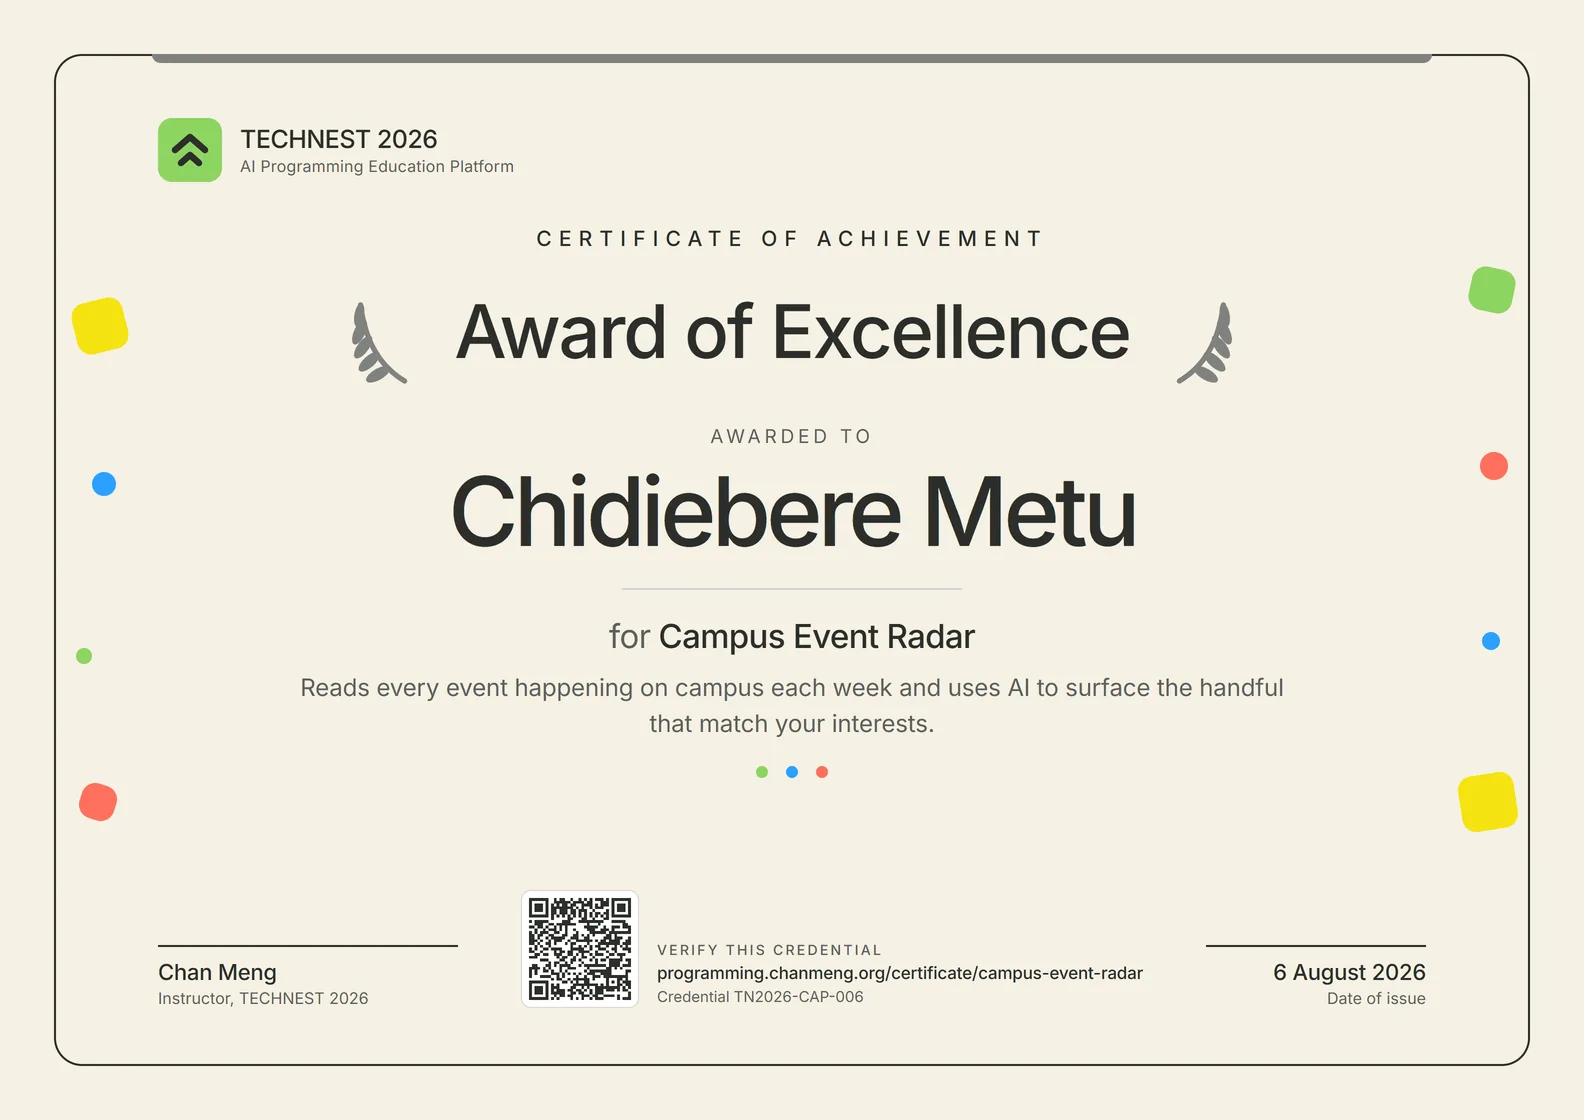
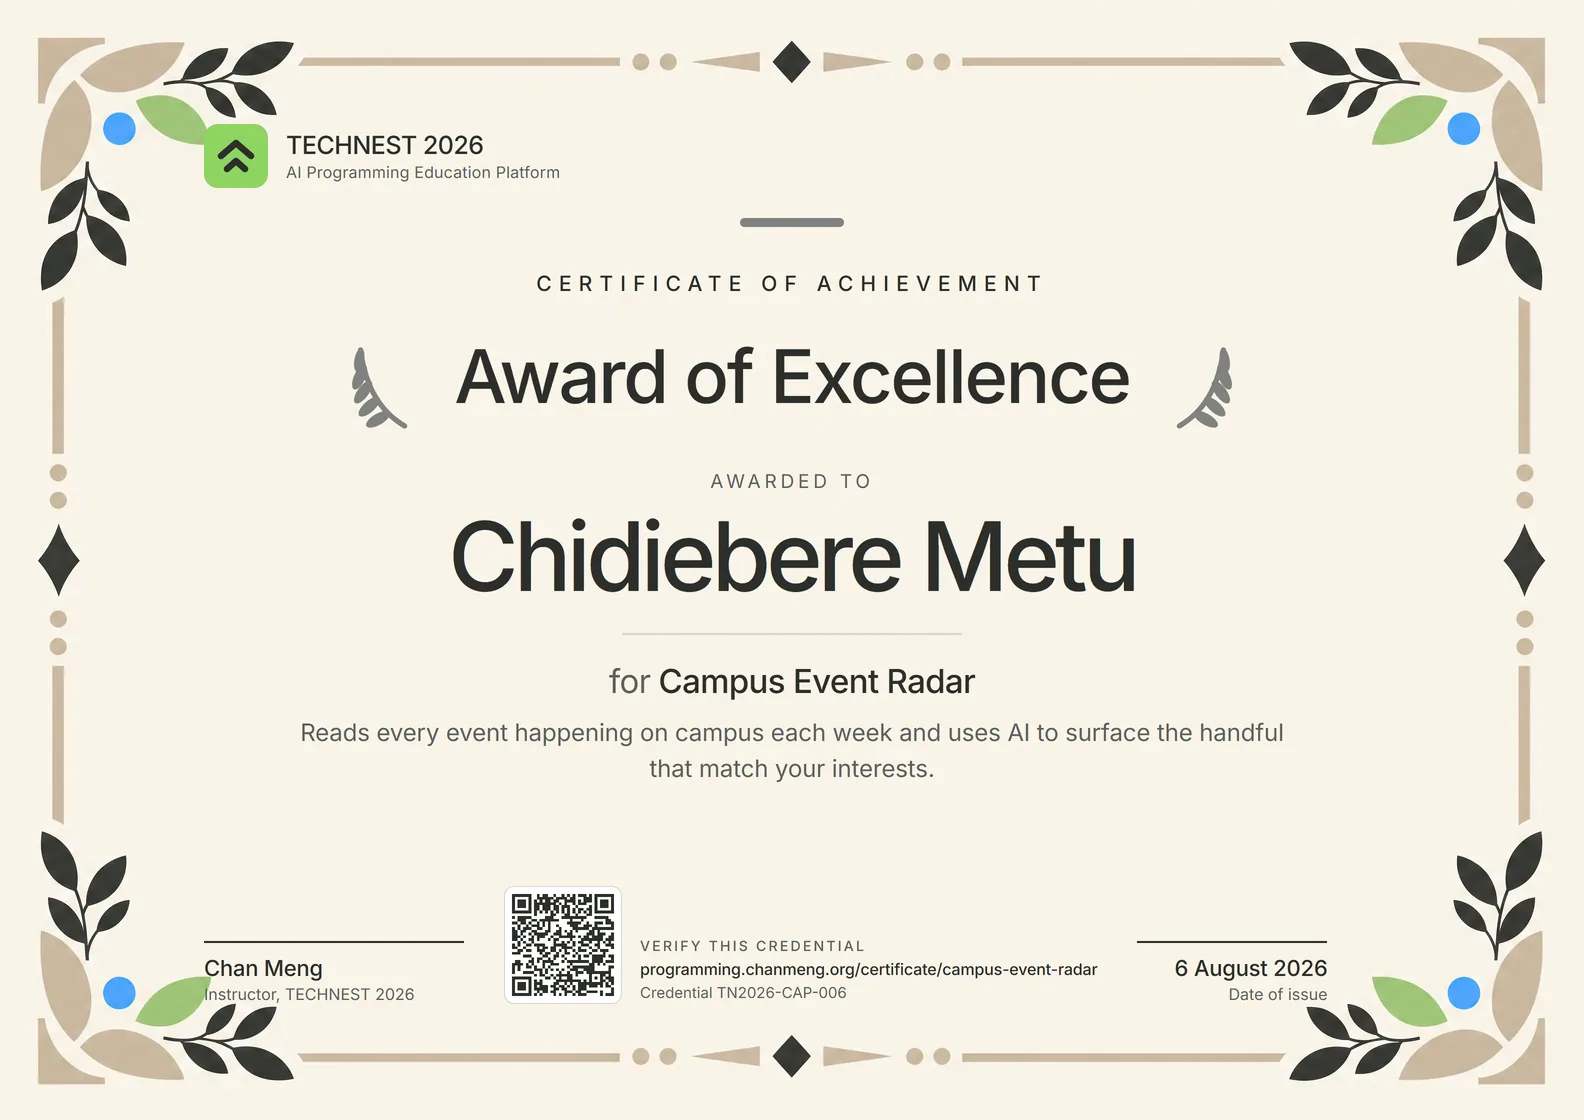
feat(capstone): illustrated gpt-image-2 borders on the certificates
Replaces the CSS ornament fallback with generated paper-cut plates: a green
laurel vine for the podium three, a formal beige-and-ink frame for the Award of
Excellence three. The two tiers now read as visibly distinct document families.

Both plates came back completely free of lettering, which is the failure mode
that would have forced the fallback. Getting there took a stricter prompt: the
first podium plate sprawled ~21% inward at the bottom corners and ran straight
through the signature and date lines, so the band width is now stated as a hard
limit and stated for the corners separately — that is where a "celebratory"
instruction makes the model pile artwork up.

Layout fixes found by looking at the renders:
- Footer inset 56px on the right only in plate mode. The excellence plate's
  bottom-right corner ornament is larger than its bottom-left one (it is an
  illustration, not a symmetric vector) and a leaf was landing behind "Date of
  issue". Symmetric padding at 96px was tried first and squeezed the middle
  column until the verification URL wrapped mid-word.
- Signature and date blocks narrowed to 260/190px and the URL to 16px so the
  longest slug (campus-event-radar, 54 chars) always fits on one line, plus
  white-space:nowrap — a URL broken mid-word reads as a malformed link on a
  document whose whole job is being checkable.

Plate PNG masters (~5.4 MB) are gitignored: nothing links them, the renderer
[…]

diff --git a/scripts/certificate-template.html b/scripts/certificate-template.html
@@ -120,8 +120,16 @@
     margin-top:auto;width:100%;display:flex;align-items:flex-end;
     justify-content:space-between;gap:40px;text-align:left;
   }
-  .sig{min-width:300px}
-  .sig .line{width:300px;height:2px;background:var(--ink);margin-bottom:12px}
+  /* Right side only: the excellence plate's bottom-right corner ornament is
+     larger than its bottom-left one (it is an illustration, not a symmetric
+     vector), and a leaf was landing behind "Date of issue". Symmetric padding
+     was tried at 96px and squeezed the middle column until the verification URL
+     wrapped mid-word — the one line that most needs to read in a single glance. */
+  body[data-plate="on"] .footer{padding:0 56px 0 0}
+  /* The outer blocks are kept narrow so the middle column always has room for
+     the longest verification URL (campus-event-radar, 54 chars) on one line. */
+  .sig{min-width:260px}
+  .sig .line{width:260px;height:2px;background:var(--ink);margin-bottom:12px}
   .sig .who{font-size:22px;font-weight:500;letter-spacing:-0.01em}
   .sig .role{font-size:16px;font-weight:400;color:var(--ink-muted);margin-top:3px}
 
@@ -132,11 +140,14 @@
   .verify .vtext{padding-bottom:2px}
   .verify .vlabel{font-size:14px;font-weight:500;letter-spacing:0.16em;
                   text-transform:uppercase;color:var(--ink-muted)}
-  .verify .vurl{font-size:17px;font-weight:500;margin-top:5px;letter-spacing:-0.01em}
+  /* nowrap is not cosmetic: a verification URL broken mid-word reads as a
+     malformed link on a document whose whole job is being checkable. */
+  .verify .vurl{font-size:16px;font-weight:500;margin-top:5px;letter-spacing:-0.01em;
+                white-space:nowrap}
   .verify .vid{font-size:15px;font-weight:400;color:var(--ink-muted);margin-top:4px}
 
-  .issued{text-align:right;min-width:220px}
-  .issued .line{width:220px;height:2px;background:var(--ink);margin:0 0 12px auto}
+  .issued{text-align:right;min-width:190px}
+  .issued .line{width:190px;height:2px;background:var(--ink);margin:0 0 12px auto}
   .issued .who{font-size:22px;font-weight:500;letter-spacing:-0.01em}
   .issued .role{font-size:16px;font-weight:400;color:var(--ink-muted);margin-top:3px}
 </style>
